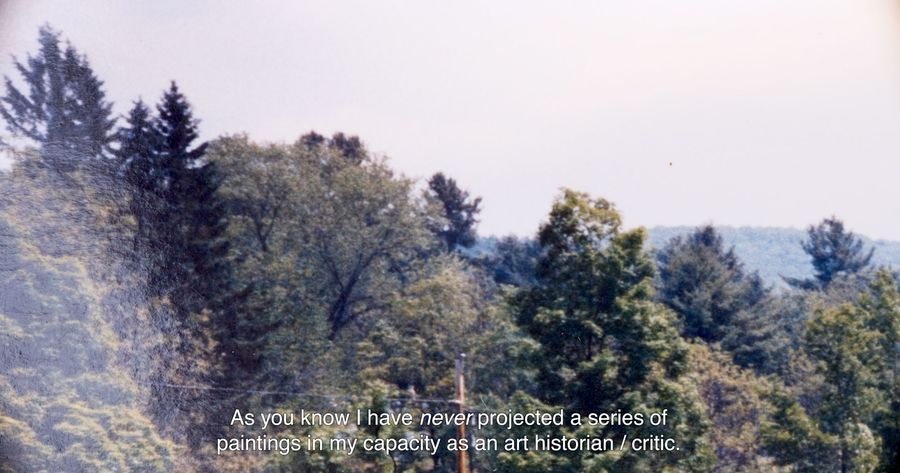
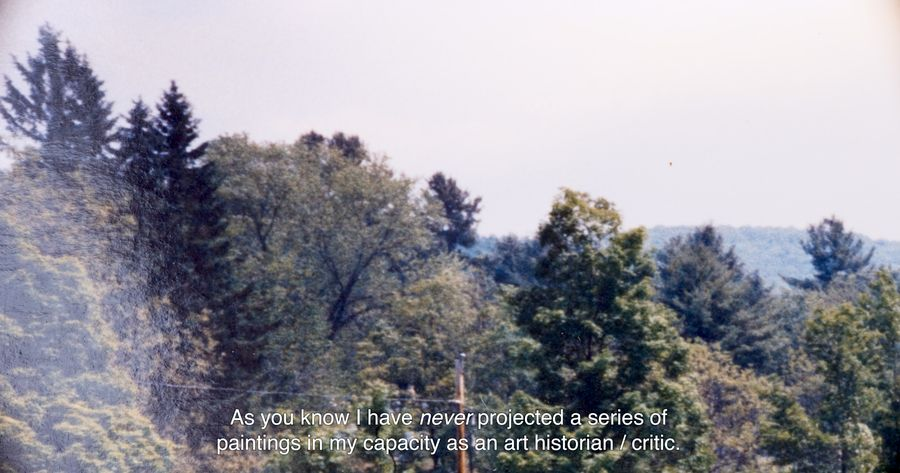
Swap in original images: Contact, Before, Conversation About Trees, After, Ambulance Chasers
Claude-Session: https://claude.ai/code/session_01JVoaYGW79WXXRpj5iE4Fxm

Changed region(s): [[0.56, 0.8584, 0.7467, 0.9471], [0.4044, 0.8584, 0.5289, 0.9471], [0.2489, 0.8879, 0.3733, 0.9767]]

diff --git a/index.html b/index.html
@@ -6,5 +6,5 @@
 <link rel="stylesheet" href="style.css">
 </head><body>
 <header><a class="name" href="index.html">Abraham Adams</a><nav><a href="index.html" aria-current="page">works</a><a href="books.html">books</a><a href="exhibitions.html">exhibitions</a><a href="info.html">info</a></nav></header>
-<main><h1 class="sr">Works</h1><div class="grid"><a class="tile" href="works/variations-for-the-healing.html"><span class="frame"><img src="img/variations-for-the-healing-01-t.jpg" width="600" height="900" alt="Variations for the Healing" loading="lazy"></span><span class="label"><em>Variations for the Healing</em>, 2025–26</span></a><a class="tile" href="works/a-conversation-about-trees.html"><span class="frame"><img src="img/a-conversation-about-trees-01-t.jpg" width="900" height="600" alt="A Conversation About Trees" loading="lazy"></span><span class="label"><em>A Conversation About Trees</em>, 2025</span></a><a class="tile" href="works/more-heavens.html"><span class="frame"><img src="img/more-heavens-01-t.jpg" width="900" height="600" alt="More Heavens" loading="lazy"></span><span class="label"><em>More Heavens</em>, 2025–</span></a><a class="tile" href="works/contact.html"><span class="frame"><img src="img/contact-01-t.jpg" width="900" height="815" alt="Contact" loading="lazy"></span><span class="label"><em>Contact</em>, 2024–</span></a><a class="tile" href="works/after.html"><span class="frame"><img src="img/after-01-t.jpg" width="900" height="675" alt="After" loading="lazy"></span><span class="label"><em>After</em>, 2021–</span></a><a class="tile" href="works/ambulance-chasers.html"><span class="frame"><img src="img/ambulance-chasers-01-t.jpg" width="900" height="810" alt="Ambulance Chasers" loading="lazy"></span><span class="label"><em>Ambulance Chasers</em>, 2022</span></a><a class="tile" href="works/tony-the-drunk-is-a-thief.html"><span class="frame"><img src="img/tony-the-drunk-is-a-thief-01-t.jpg" width="900" height="681" alt="Tony the Drunk Is a Thief" loading="lazy"></span><span class="label"><em>Tony the Drunk Is a Thief</em>, 2018</span></a><a class="tile" href="works/nothing-in-moma.html"><span class="frame"><img src="img/nothing-in-moma-01-t.jpg" width="900" height="600" alt="Nothing in MoMA" loading="lazy"></span><span class="label"><em>Nothing in MoMA</em>, 2018</span></a><a class="tile" href="works/before.html"><span class="frame"><img src="img/before-01-t.jpg" width="900" height="900" alt="Before" loading="lazy"></span><span class="label"><em>Before</em>, 2016</span></a><a class="tile" href="works/my-dark-blue-rain-drenched-flower.html"><span class="frame"><img src="img/my-dark-blue-rain-drenched-flower-01-t.jpg" width="900" height="637" alt="My Dark-Blue Rain-Drenched Flower" loading="lazy"></span><span class="label"><em>My Dark-Blue Rain-Drenched Flower</em>, 2015</span></a><a class="tile" href="works/installation-for-a-photograph.html"><span class="frame"><img src="img/installation-for-a-photograph-01-t.jpg" width="674" height="900" alt="Installation for a Photograph" loading="lazy"></span><span class="label"><em>Installation for a Photograph</em>, 2014–15</span></a></div></main>
+<main><h1 class="sr">Works</h1><div class="grid"><a class="tile" href="works/variations-for-the-healing.html"><span class="frame"><img src="img/variations-for-the-healing-01-t.jpg" width="600" height="900" alt="Variations for the Healing" loading="lazy"></span><span class="label"><em>Variations for the Healing</em>, 2025–26</span></a><a class="tile" href="works/a-conversation-about-trees.html"><span class="frame"><img src="img/a-conversation-about-trees-01-t.jpg" width="900" height="600" alt="A Conversation About Trees" loading="lazy"></span><span class="label"><em>A Conversation About Trees</em>, 2025</span></a><a class="tile" href="works/more-heavens.html"><span class="frame"><img src="img/more-heavens-01-t.jpg" width="900" height="600" alt="More Heavens" loading="lazy"></span><span class="label"><em>More Heavens</em>, 2025–</span></a><a class="tile" href="works/contact.html"><span class="frame"><img src="img/contact-01-t.jpg" width="720" height="900" alt="Contact" loading="lazy"></span><span class="label"><em>Contact</em>, 2024–</span></a><a class="tile" href="works/after.html"><span class="frame"><img src="img/after-01-t.jpg" width="900" height="675" alt="After" loading="lazy"></span><span class="label"><em>After</em>, 2021–</span></a><a class="tile" href="works/ambulance-chasers.html"><span class="frame"><img src="img/ambulance-chasers-01-t.jpg" width="900" height="810" alt="Ambulance Chasers" loading="lazy"></span><span class="label"><em>Ambulance Chasers</em>, 2022</span></a><a class="tile" href="works/tony-the-drunk-is-a-thief.html"><span class="frame"><img src="img/tony-the-drunk-is-a-thief-01-t.jpg" width="900" height="681" alt="Tony the Drunk Is a Thief" loading="lazy"></span><span class="label"><em>Tony the Drunk Is a Thief</em>, 2018</span></a><a class="tile" href="works/nothing-in-moma.html"><span class="frame"><img src="img/nothing-in-moma-01-t.jpg" width="900" height="600" alt="Nothing in MoMA" loading="lazy"></span><span class="label"><em>Nothing in MoMA</em>, 2018</span></a><a class="tile" href="works/before.html"><span class="frame"><img src="img/before-01-t.jpg" width="899" height="900" alt="Before" loading="lazy"></span><span class="label"><em>Before</em>, 2016</span></a><a class="tile" href="works/my-dark-blue-rain-drenched-flower.html"><span class="frame"><img src="img/my-dark-blue-rain-drenched-flower-01-t.jpg" width="900" height="637" alt="My Dark-Blue Rain-Drenched Flower" loading="lazy"></span><span class="label"><em>My Dark-Blue Rain-Drenched Flower</em>, 2015</span></a><a class="tile" href="works/installation-for-a-photograph.html"><span class="frame"><img src="img/installation-for-a-photograph-01-t.jpg" width="674" height="900" alt="Installation for a Photograph" loading="lazy"></span><span class="label"><em>Installation for a Photograph</em>, 2014–15</span></a></div></main>
 </body></html>

diff --git a/works/ambulance-chasers.html b/works/ambulance-chasers.html
@@ -6,5 +6,5 @@
 <link rel="stylesheet" href="../style.css">
 </head><body>
 <header><a class="name" href="../index.html">Abraham Adams</a><nav><a href="../index.html" aria-current="page">works</a><a href="../books.html">books</a><a href="../exhibitions.html">exhibitions</a><a href="../info.html">info</a></nav></header>
-<main><article class="work"><h1><em>Ambulance Chasers</em>, 2022</h1><p class="desc"><em>Ambulance Chasers</em> (MIT Press, 2022) is a series of photographic diptychs: on the left, a close-up on a personal-injury lawyer from a billboard; on the right, the landscape it is facing. <a href="https://mitpress.mit.edu/9780262047104/ambulance-chasers/">MIT Press ↗</a></p><figure><img src="../img/ambulance-chasers-01.jpg" width="2400" height="2160" alt="Ambulance Chasers, 2022" loading="eager"><figcaption>Ambulance Chasers, 2022. Digital color photographs, each 10 × 9 in.</figcaption></figure><figure><img src="../img/ambulance-chasers-02.jpg" width="2280" height="1825" alt="Ambulance Chasers, MIT Press, 2022" loading="lazy"><figcaption>Ambulance Chasers, MIT Press, 2022. Artist’s book with a text by David Joselit, 136 pp., 62 figures, 10 × 9 in.</figcaption></figure><figure><img src="../img/ambulance-chasers-03.jpg" width="2400" height="2400" alt="Detail" loading="lazy"><figcaption>Detail.</figcaption></figure><figure><img src="../img/ambulance-chasers-04.jpg" width="2400" height="2160" alt="Ambulance Chasers, 2022" loading="lazy"><figcaption>Ambulance Chasers, 2022. Digital color photographs, each 10 × 9 in.</figcaption></figure><figure><img src="../img/ambulance-chasers-05.jpg" width="2400" height="2400" alt="Detail" loading="lazy"><figcaption>Detail.</figcaption></figure><figure><img src="../img/ambulance-chasers-06.jpg" width="2400" height="2160" alt="Ambulance Chasers, 2022" loading="lazy"><figcaption>Ambulance Chasers, 2022. Digital color photographs, each 10 × 9 in.</figcaption></figure><figure><img src="../img/ambulance-chasers-07.jpg" width="2400" height="2400" alt="Detail" loading="lazy"><figcaption>Detail.</figcaption></figure></article></main>
+<main><article class="work"><h1><em>Ambulance Chasers</em>, 2022</h1><p class="desc"><em>Ambulance Chasers</em> (MIT Press, 2022) is a series of photographic diptychs: on the left, a close-up on a personal-injury lawyer from a billboard; on the right, the landscape it is facing. <a href="https://mitpress.mit.edu/9780262047104/ambulance-chasers/">MIT Press ↗</a></p><figure><img src="../img/ambulance-chasers-01.jpg" width="2400" height="2160" alt="Ambulance Chasers, 2022" loading="eager"><figcaption>Ambulance Chasers, 2022. Digital color photographs, each 10 × 9 in.</figcaption></figure><figure><img src="../img/ambulance-chasers-02.jpg" width="2400" height="1920" alt="Ambulance Chasers, MIT Press, 2022" loading="lazy"><figcaption>Ambulance Chasers, MIT Press, 2022. Artist’s book with a text by David Joselit, 136 pp., 62 figures, 10 × 9 in.</figcaption></figure><figure><img src="../img/ambulance-chasers-03.jpg" width="2400" height="2400" alt="Detail" loading="lazy"><figcaption>Detail.</figcaption></figure><figure><img src="../img/ambulance-chasers-04.jpg" width="2400" height="2160" alt="Ambulance Chasers, 2022" loading="lazy"><figcaption>Ambulance Chasers, 2022. Digital color photographs, each 10 × 9 in.</figcaption></figure><figure><img src="../img/ambulance-chasers-05.jpg" width="2400" height="2400" alt="Detail" loading="lazy"><figcaption>Detail.</figcaption></figure><figure><img src="../img/ambulance-chasers-06.jpg" width="2400" height="2160" alt="Ambulance Chasers, 2022" loading="lazy"><figcaption>Ambulance Chasers, 2022. Digital color photographs, each 10 × 9 in.</figcaption></figure><figure><img src="../img/ambulance-chasers-07.jpg" width="2400" height="2400" alt="Detail" loading="lazy"><figcaption>Detail.</figcaption></figure></article></main>
 </body></html>

diff --git a/works/contact.html b/works/contact.html
@@ -6,5 +6,5 @@
 <link rel="stylesheet" href="../style.css">
 </head><body>
 <header><a class="name" href="../index.html">Abraham Adams</a><nav><a href="../index.html" aria-current="page">works</a><a href="../books.html">books</a><a href="../exhibitions.html">exhibitions</a><a href="../info.html">info</a></nav></header>
-<main><article class="work"><h1><em>Contact</em>, 2024–</h1><p class="desc"><em>Contact</em> is a series of views through antique encyclopedia pages held up to light so that front and back form chance combinations of text and image.</p><figure><img src="../img/contact-01.jpg" width="2000" height="1812" alt="Contact, 2024" loading="eager"><figcaption>Contact, 2024. Framed ink-jet print, 31 cm square. Installation view, “Zygote,” Culterim Gallery, Berlin.</figcaption></figure><figure><img src="../img/contact-02.jpg" width="2400" height="2400" alt="Detail" loading="lazy"><figcaption>Detail.</figcaption></figure><figure><img src="../img/contact-03.jpg" width="2000" height="1812" alt="Contact, 2024" loading="lazy"><figcaption>Contact, 2024. Framed ink-jet print, 31 cm square. Installation view, “Zygote,” Culterim Gallery, Berlin.</figcaption></figure><figure><img src="../img/contact-04.jpg" width="1856" height="2400" alt="Detail" loading="lazy"><figcaption>Detail.</figcaption></figure><figure><img src="../img/contact-05.jpg" width="2000" height="1812" alt="Contact, 2024" loading="lazy"><figcaption>Contact, 2024. Framed ink-jet print, 31.5 × 29.5 cm. Installation view, “Zygote,” Culterim Gallery, Berlin.</figcaption></figure><figure><img src="../img/contact-06.jpg" width="1201" height="1550" alt="Detail" loading="lazy"><figcaption>Detail.</figcaption></figure></article></main>
+<main><article class="work"><h1><em>Contact</em>, 2024–</h1><p class="desc"><em>Contact</em> is a series of views through antique encyclopedia pages held up to light so that front and back form chance combinations of text and image.</p><figure><img src="../img/contact-01.jpg" width="1920" height="2400" alt="Contact, 2024" loading="eager"><figcaption>Contact, 2024. Framed ink-jet print, 31 cm square. Installation view, “Zygote,” Culterim Gallery, Berlin.</figcaption></figure><figure><img src="../img/contact-02.jpg" width="2400" height="2400" alt="Detail" loading="lazy"><figcaption>Detail.</figcaption></figure><figure><img src="../img/contact-03.jpg" width="1920" height="2400" alt="Contact, 2024" loading="lazy"><figcaption>Contact, 2024. Framed ink-jet print, 31 cm square. Installation view, “Zygote,” Culterim Gallery, Berlin.</figcaption></figure><figure><img src="../img/contact-04.jpg" width="2400" height="2400" alt="Detail" loading="lazy"><figcaption>Detail.</figcaption></figure><figure><img src="../img/contact-05.jpg" width="1920" height="2400" alt="Contact, 2024" loading="lazy"><figcaption>Contact, 2024. Framed ink-jet print, 31.5 × 29.5 cm. Installation view, “Zygote,” Culterim Gallery, Berlin.</figcaption></figure><figure><img src="../img/contact-06.jpg" width="2180" height="1774" alt="Detail" loading="lazy"><figcaption>Detail.</figcaption></figure></article></main>
 </body></html>

diff --git a/works/before.html b/works/before.html
@@ -6,5 +6,5 @@
 <link rel="stylesheet" href="../style.css">
 </head><body>
 <header><a class="name" href="../index.html">Abraham Adams</a><nav><a href="../index.html" aria-current="page">works</a><a href="../books.html">books</a><a href="../exhibitions.html">exhibitions</a><a href="../info.html">info</a></nav></header>
-<main><article class="work"><h1><em>Before</em>, 2016</h1><p class="desc"><em>Before</em> (Inpatient Press, 2016) is a collection of found “before and after” diptychs from print media with their “afters” taken away. <a href="https://inpatientpress.bigcartel.com/product/before-by-abraham-adams">Inpatient Press ↗</a></p><figure><img src="../img/before-01.jpg" width="2177" height="2178" alt="Before, 2016" loading="eager"><figcaption>Before, 2016. Color photograph, 20 in. square.</figcaption></figure><figure><img src="../img/before-02.jpg" width="1065" height="1377" alt="Detail" loading="lazy"><figcaption>Detail.</figcaption></figure><figure><img src="../img/before-03.jpg" width="1140" height="1398" alt="Before, 2016" loading="lazy"><figcaption>Before, 2016. Color photograph, 20 in. square.</figcaption></figure><figure><img src="../img/before-04.jpg" width="1856" height="2400" alt="Detail" loading="lazy"><figcaption>Detail.</figcaption></figure></article></main>
+<main><article class="work"><h1><em>Before</em>, 2016</h1><p class="desc"><em>Before</em> (Inpatient Press, 2016) is a collection of found “before and after” diptychs from print media with their “afters” taken away. <a href="https://inpatientpress.bigcartel.com/product/before-by-abraham-adams">Inpatient Press ↗</a></p><figure><img src="../img/before-01.jpg" width="2398" height="2400" alt="Before, 2016" loading="eager"><figcaption>Before, 2016. Color photograph, 20 in. square.</figcaption></figure><figure><img src="../img/before-02.jpg" width="1065" height="1377" alt="Detail" loading="lazy"><figcaption>Detail.</figcaption></figure><figure><img src="../img/before-03.jpg" width="1966" height="2400" alt="Before, 2016" loading="lazy"><figcaption>Before, 2016. Color photograph, 20 in. square.</figcaption></figure><figure><img src="../img/before-04.jpg" width="1856" height="2400" alt="Detail" loading="lazy"><figcaption>Detail.</figcaption></figure></article></main>
 </body></html>

diff --git a/works/a-conversation-about-trees.html b/works/a-conversation-about-trees.html
@@ -6,5 +6,5 @@
 <link rel="stylesheet" href="../style.css">
 </head><body>
 <header><a class="name" href="../index.html">Abraham Adams</a><nav><a href="../index.html" aria-current="page">works</a><a href="../books.html">books</a><a href="../exhibitions.html">exhibitions</a><a href="../info.html">info</a></nav></header>
-<main><article class="work"><h1><em>A Conversation About Trees</em>, 2025</h1><p class="desc"><em>A Conversation About Trees</em> is a film companion to <em>More Heavens</em>, in which a psychoanalyst speculatively interprets the text of a dream by an artist who abandoned his practice.</p><figure><img src="../img/a-conversation-about-trees-01.jpg" width="2246" height="1498" alt="A Conversation About Trees, 2025" loading="eager"><figcaption>A Conversation About Trees, 2025. Digital video, 57 min. Installation view, “Memory Put a Walkway,” Lime Wharf, London.</figcaption></figure><figure><img src="../img/a-conversation-about-trees-02.jpg" width="2400" height="1262" alt="Still" loading="lazy"><figcaption>Still.</figcaption></figure></article></main>
+<main><article class="work"><h1><em>A Conversation About Trees</em>, 2025</h1><p class="desc"><em>A Conversation About Trees</em> is a film companion to <em>More Heavens</em>, in which a psychoanalyst speculatively interprets the text of a dream by an artist who abandoned his practice.</p><figure><img src="../img/a-conversation-about-trees-01.jpg" width="2400" height="1600" alt="A Conversation About Trees, 2025" loading="eager"><figcaption>A Conversation About Trees, 2025. Digital video, 57 min. Installation view, “Memory Put a Walkway,” Lime Wharf, London.</figcaption></figure><figure><img src="../img/a-conversation-about-trees-02.jpg" width="2400" height="1261" alt="Still" loading="lazy"><figcaption>Still.</figcaption></figure></article></main>
 </body></html>
